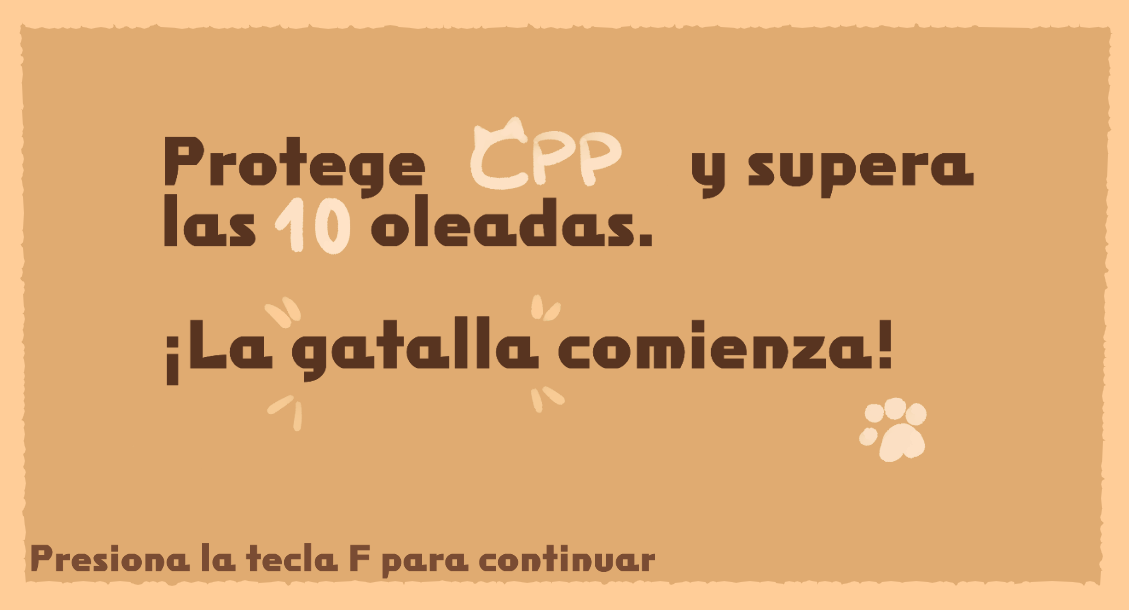
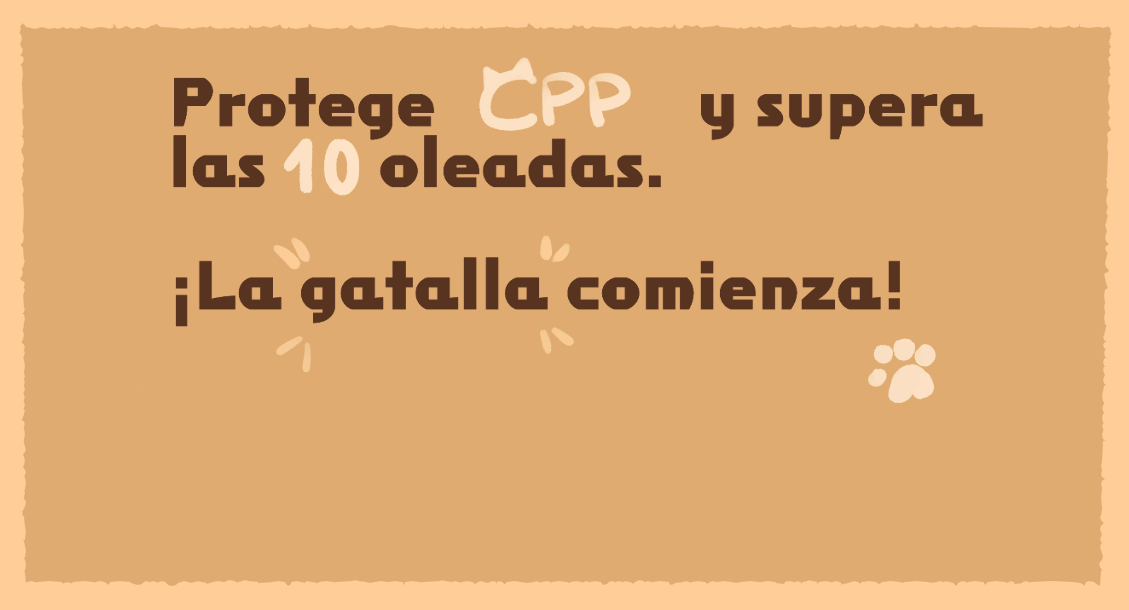
cambios tutorial

Changed region(s): [[0.124, 0.0934, 0.868, 0.7787], [0.0, 0.8721, 0.589, 0.9344], [0.217, 0.6541, 0.279, 0.7164]]

diff --git a/project/src/game/scenes/TutorialScene.cpp b/project/src/game/scenes/TutorialScene.cpp
@@ -44,7 +44,7 @@ TutorialScene::TutorialScene()
 				input.isKeyDown(SDL_SCANCODE_S) || input.isKeyDown(SDL_SCANCODE_D))
 				||input.getRStick().getX() != 0.0f|| input.getRStick().getY() != 0.0f;
 		},
-		3000,{{0.1f, 0.1f}, {0.3f, 0.3f}}
+		3000,{{0.04f, 0.1f}, {0.4f, 0.4f}}
 		});
 
 	_pop_ups.push_back({ "pop_up_player_hud",
@@ -64,7 +64,7 @@ TutorialScene::TutorialScene()
 			if (LT)input.consume(InputHandler::CONTROLLER_BUTTONS::LT);
 			return (input.mouseButtonDownEvent() && input.getMouseButtonState(InputHandler::RIGHT)) || LT;
 		},
-		2000,{{0.1f, 0.1f}, {0.35f, 0.35f}},
+		2000,{{0.04f, 0.1f}, {0.4f, 0.4f}},
 		});
 
 	_pop_ups.push_back({ "popup_reload",
@@ -73,7 +73,7 @@ TutorialScene::TutorialScene()
 			bool B = input.isControllerButtonDown(InputHandler::CONTROLLER_BUTTONS::B);
 			if (B)input.consume(InputHandler::CONTROLLER_BUTTONS::B);
 			return input.isKeyDown(SDL_SCANCODE_SPACE) || B; },
-		2000, {{0.1f, 0.1f}, {0.35f, 0.35f}}
+		2000, {{0.04f, 0.1f}, {0.4f, 0.4f}}
 	});
 
 
@@ -84,7 +84,7 @@ TutorialScene::TutorialScene()
 			if (RT)input.consume(InputHandler::CONTROLLER_BUTTONS::RT);
 			return (input.mouseButtonDownEvent() && input.getMouseButtonState(InputHandler::LEFT)) || RT;
 		},
-		3000, {{0.1f, 0.1f}, {0.35f, 0.35f}}
+		3000, {{0.04f, 0.1f}, {0.4f, 0.4f}}
 	});
 
 	_pop_ups.push_back({ "popup_enemy",
@@ -111,7 +111,7 @@ TutorialScene::TutorialScene()
 		250, {{0.05f, 0.05f}, {0.85f, 0.85f}},
 	});
 	_pop_ups.push_back({ "popup_ganar",
-		[this]() { return has_pass_input(); },
+		[]() { return false; },
 		50, {{0.0f, 0.0f}, {1.0f, 1.0f}},
 	});
 
@@ -158,7 +158,8 @@ void TutorialScene::enterScene()
 	if(manager.hasComponent<PlayerHUD>(player))	manager.removeComponent<PlayerHUD>(player);
 	auto hud = manager.getHandler(ecs::hdlr::TURORIALHUD);
 	if (hud) manager.setAlive(hud,false);
-
+	auto play_button = manager.getHandler(ecs::hdlr::TUTORIALBUTTON);
+	if (play_button) manager.setAlive(play_button, false);
 	manager.refresh();
 
 #ifdef GENERATE_LOG
@@ -167,13 +168,13 @@ void TutorialScene::enterScene()
 #endif
 
 
+	_enemy_killed = false;
 }
 
 void TutorialScene::exitScene()
 {
 	if (_current_pop_up_entity)  Game::Instance()->get_mngr()->setAlive(_current_pop_up_entity, false);
 	_current_pop_up = 0;
-	_enemy_killed = false;
 #ifdef GENERATE_LOG
 	log_writer_to_csv::Instance()->add_new_log("EXIT TUTORIAL SCENE");
 	log_writer_to_csv::Instance()->add_new_log();
@@ -187,15 +188,9 @@ void TutorialScene::update(uint32_t delta_time) {
 	switch (_tutorial_state)
 	{
 	case TutorialState::NEXT_POP_UP:
-		if (_current_pop_up >= _pop_ups.size()) {
-			_tutorial_state = TutorialState::FINISHED;
-		}
-		else
-		{
-			create_pop_up();
-			_popup_timer = 0;
-			_tutorial_state = TutorialState::WAIT_FOR_ACTION;
-		}
+	    create_pop_up();
+		_popup_timer = 0;
+		_tutorial_state = _current_pop_up == _pop_ups.size() - 1 ? TutorialState::FINISHED : TutorialState::WAIT_FOR_ACTION;
 		break;
 	case TutorialState::WAIT_FOR_ACTION:
 		if (_pop_ups[_current_pop_up].condition()) {
@@ -212,8 +207,11 @@ void TutorialScene::update(uint32_t delta_time) {
 		}
 		break;
 	case TutorialState::FINISHED:
-		Game::Instance()->change_Scene(Game::SELECTIONMENU);
+	{
+		auto button = create_change_scene_button({ {{ 0.4, 0.6f }, {0.25f, 0.25f}  }, 0.0f, "enter_game" }, Game::SELECTIONMENU);
+		Game::Instance()->get_mngr()->setHandler(ecs::hdlr::TUTORIALBUTTON, button);
 		break;
+	}
 	default:
 		break;
 	}
@@ -251,7 +249,7 @@ bool TutorialScene::has_pass_input()
 	return input.isKeyDown(SDL_SCANCODE_F) || A;
 }
 
-void TutorialScene::create_change_scene_button(const GameStructs::ButtonProperties& bp, Game::State nextScene)
+ecs::entity_t TutorialScene::create_change_scene_button(const GameStructs::ButtonProperties& bp, Game::State nextScene)
 {
 	auto* mngr = Game::Instance()->get_mngr();
 	auto e = create_button(bp);
@@ -271,4 +269,6 @@ void TutorialScene::create_change_scene_button(const GameStructs::ButtonProperti
 
 	buttonComp->connectHover([buttonComp, imgComp, this]() { imgComp->_filter = true; });
 	buttonComp->connectExit([buttonComp, imgComp, this]() { imgComp->_filter = false; });
+
+	return e;
 }

diff --git a/project/src/our_scripts/components/weapons/enemies/WeaponSuperMichiMafioso.cpp b/project/src/our_scripts/components/weapons/enemies/WeaponSuperMichiMafioso.cpp
@@ -20,6 +20,7 @@ void WeaponSuperMichiMafioso::create_area(Vector2D shootPos, Vector2D shootDir, 
 	bp.width = _attack_width * scale;
 	bp.height = _attack_height * scale;
 	bp.sprite_key = key_name;
+	bp.pierce_number = 10;
 	bp.collision_filter = GameStructs::collide_with::player;
 
 	Game::Instance()->get_currentScene()->create_proyectile(bp, ecs::grp::BULLET);
@@ -38,6 +39,7 @@ void WeaponSuperMichiMafioso::attack1(Vector2D shootDir) {
 		bp.damage = 1.0f;
 		bp.life_time = 1.0f;
 		bp.sprite_key = "p_super_michi_mafioso";
+		bp.pierce_number = 10;
 		bp.collision_filter = GameStructs::collide_with::player;
 		_warning = false;
 	}
@@ -71,6 +73,7 @@ void WeaponSuperMichiMafioso::attack3(Vector2D shootPos, Vector2D shootDir) {
 	bp.height = radius;
 	bp.sprite_key = "p_super_michi_mafioso";
 	bp.collision_filter = GameStructs::collide_with::player;
+	bp.pierce_number = 10;
 
 	for (int i = 0; i < numAreas; ++i) {
 		float angleOffset = (angle * (i / (std::max(((float)numAreas - 1.0f), 1.0f))) - angle / 2.0f) * (M_PI / 180.0f);

diff --git a/project/src/game/scenes/TutorialScene.h b/project/src/game/scenes/TutorialScene.h
@@ -47,5 +47,5 @@ private:
 	bool _enemy_killed = false;
 
 	void create_pop_up();
-	void create_change_scene_button(const GameStructs::ButtonProperties& bp, Game::State nextScene);
+	ecs::entity_t create_change_scene_button(const GameStructs::ButtonProperties& bp, Game::State nextScene);
 };

diff --git a/project/src/game/ecs_defs.h b/project/src/game/ecs_defs.h
@@ -88,6 +88,7 @@
     PLAYER, \
 	TUTORIALPLAYER,\
 	TURORIALHUD,\
+	TUTORIALBUTTON,\
     WAVE, \
 	GAMEINFO, \
 	CAMERA, \
